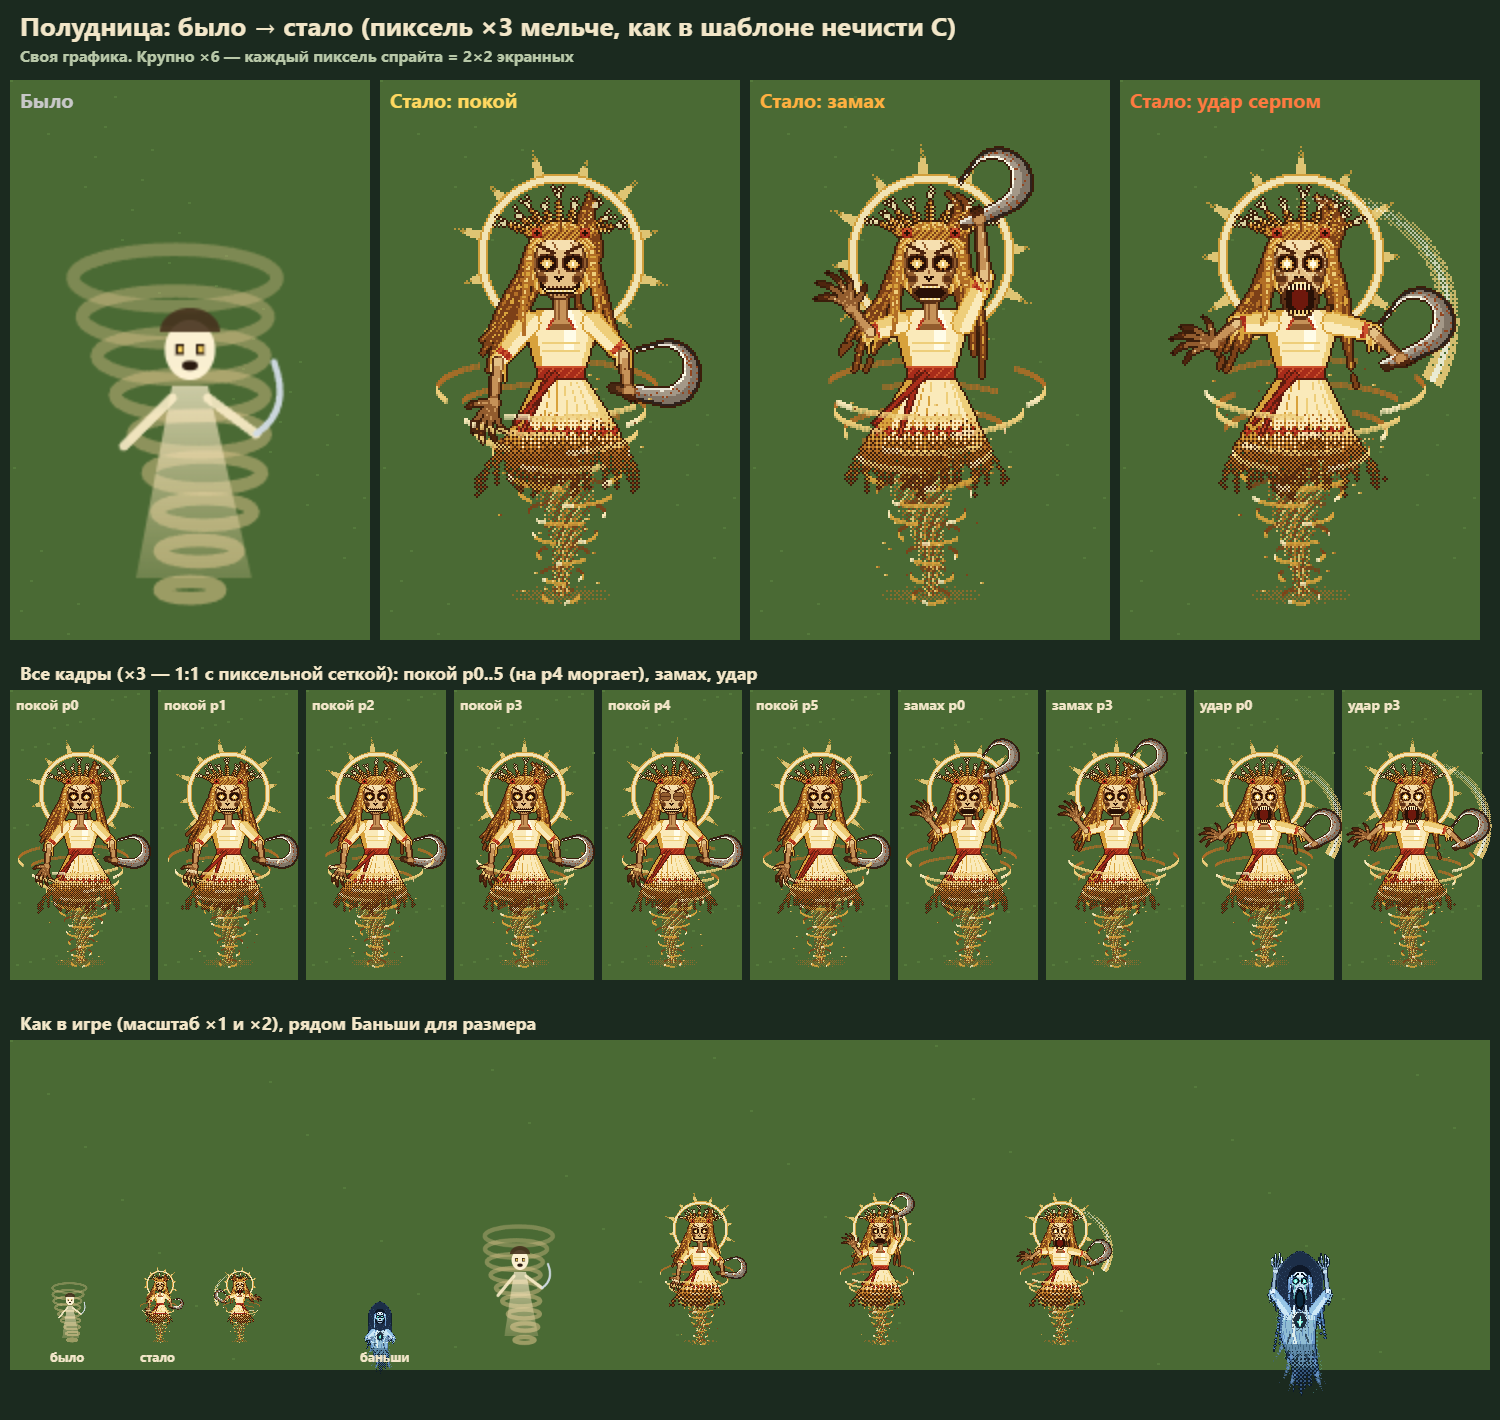
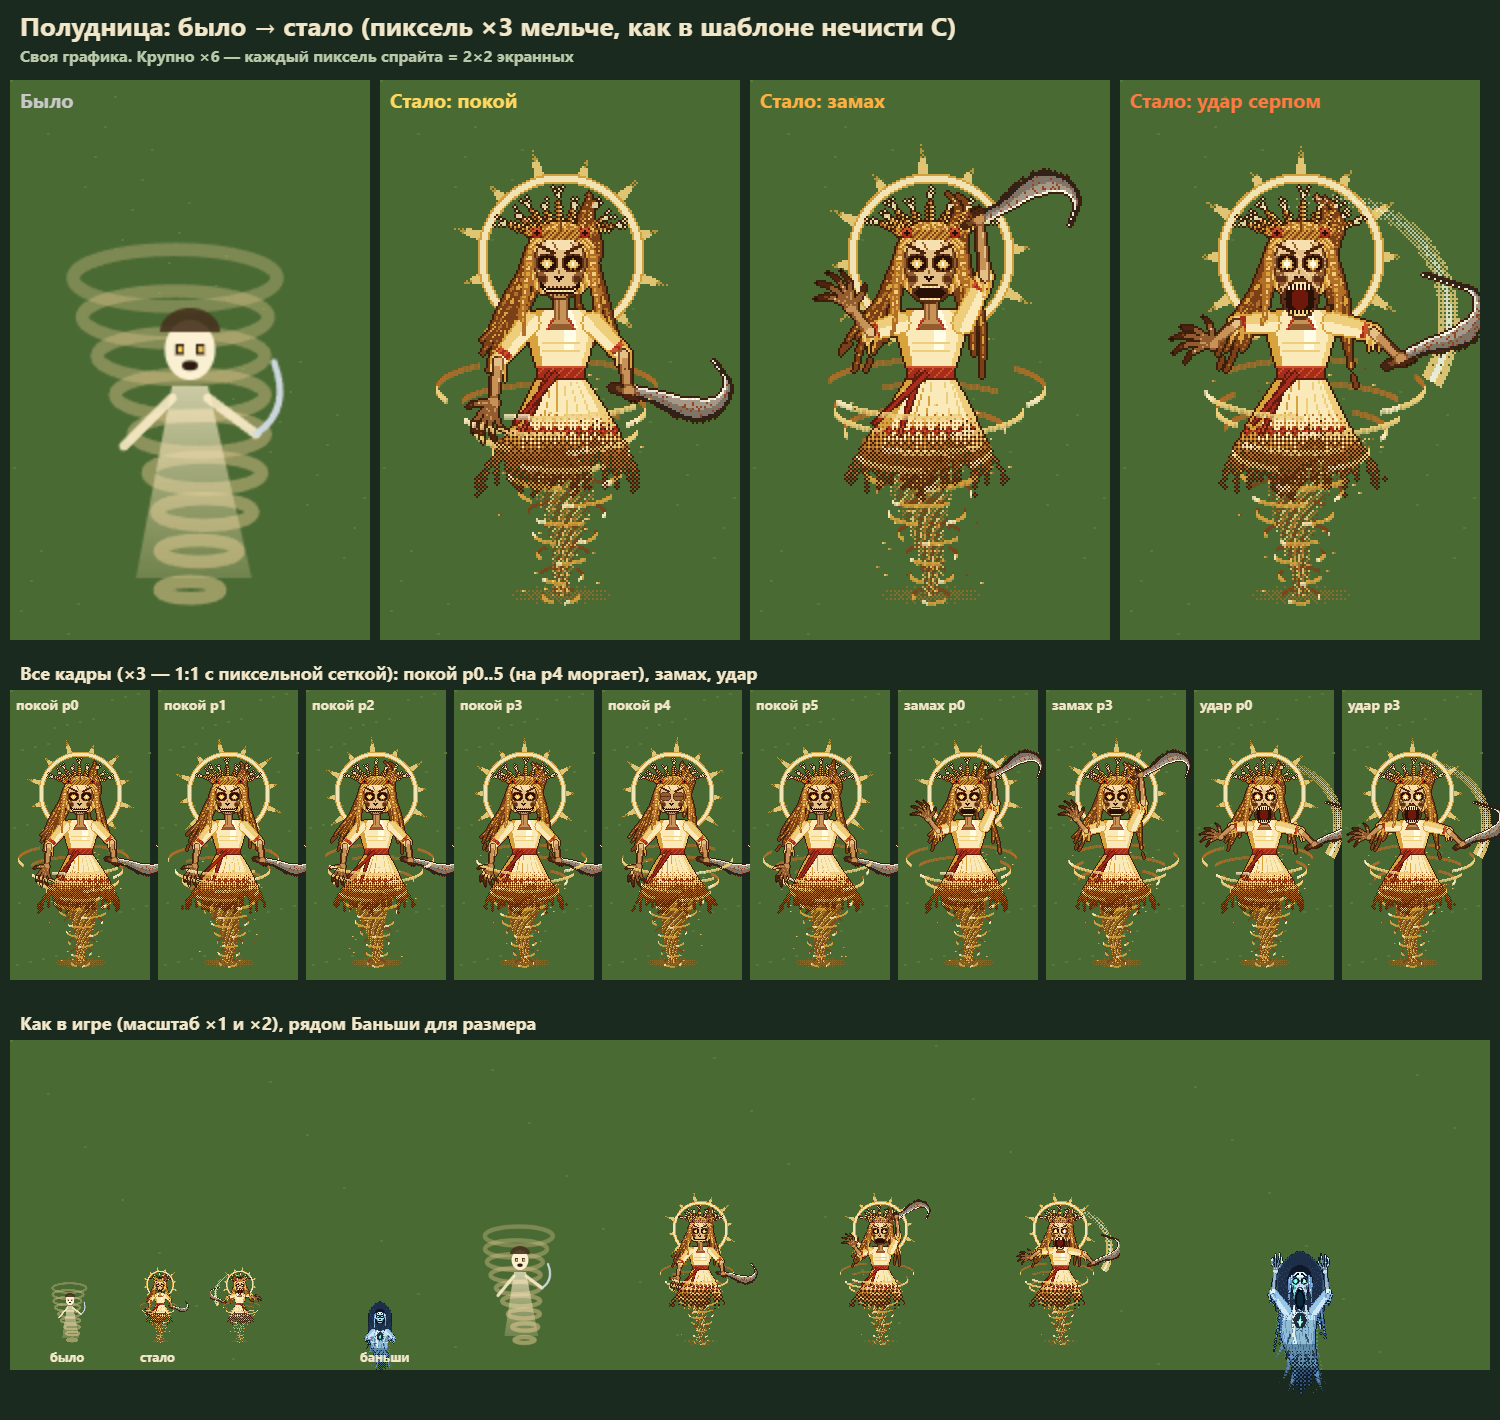
Полудница: серп S-образный, как на образце владельца
- У гарды лёгкий прогиб в обратную сторону, дальше длинная дуга с крюком к острию; острие заворачивает назад к телу.
- Клинок шире всего посередине, обух с зазубринами, бронзовая гарда. Толщина и хват прежние.

diff --git a/js/world/fairy2.js b/js/world/fairy2.js
@@ -843,14 +843,18 @@ function fzNoonPx(lv, p) {
   const sickle = (hx, hy, a) => {
     const ux = Math.cos(a), uy = Math.sin(a);
     L(hx - ux * 8, hy - uy * 8, hx + ux * 9, hy + uy * 9, 2.2, 2, (t, e) => e ? [70, 38, 18] : t < 0.08 ? [70, 38, 18] : [118, 70, 34]);   // рукоять
-    L(hx + ux * 8.5, hy + uy * 8.5, hx + ux * 11, hy + uy * 11, 2.5, 2.5, (t, e) => e ? I0 : I1);                                          // кольцо
-    const sg = -Math.sin(a + Math.PI / 2) > -Math.sin(a - Math.PI / 2) ? 1 : -1, N = 40, pts = [];
-    let x = hx + ux * 11, y = hy + uy * 11, d = a;
-    for (let i = 0; i <= N; i++) {
-      const t = i / N, w = t < 0.3 ? 3 + t * 5.5 : 4.65 * (1 - (t - 0.3) / 0.7) + 0.25;
-      pts.push([x, y, w]);
-      d += sg * (t < 0.12 ? 0.02 : 0.1); x += Math.cos(d) * 1.35; y += Math.sin(d) * 1.35;   // короткий прямой «стебель», дальше ровный круглый крюк — как у друидического серпа
-    }
+    L(hx + ux * 8.5, hy + uy * 8.5, hx + ux * 11, hy + uy * 11, 2.8, 2.8, (t, e) => e ? [110, 78, 30] : hsh(t * 9) > 0.5 ? [214, 176, 92] : [168, 128, 56]);   // бронзовая гарда
+    // S-образный клинок: у гарды лёгкий прогиб в обратную сторону, дальше длинная дуга, к острию круче; из двух сторон изгиба берём ту, где острие заворачивает назад к телу
+    const N = 40, blade = sg => {
+      const q = []; let x = hx + ux * 11, y = hy + uy * 11, d = a;
+      for (let i = 0; i <= N; i++) {
+        const t = i / N, w = t < 0.45 ? 2.2 + t / 0.45 * 2.6 : 4.8 * (1 - (t - 0.45) / 0.55) + 0.3;
+        q.push([x, y, w]);
+        d += sg * (t < 0.2 ? -0.03 : 0.02 + 0.14 * Math.pow((t - 0.2) / 0.8, 1.2)); x += Math.cos(d) * 1.3; y += Math.sin(d) * 1.3;
+      }
+      return q;
+    };
+    const A = blade(1), B = blade(-1), tipD = q => Math.hypot(q[N][0], q[N][1] + 130), sg = tipD(A) < tipD(B) ? 1 : -1, pts = sg > 0 ? A : B;
     // заливка одним проходом: ближайшая точка кривой, сторона и ширина клинка в ней
     const xs = pts.map(q => q[0]), ys = pts.map(q => q[1]);
     R(Math.min(...xs) - 6, Math.min(...ys) - 6, Math.max(...xs) + 6, Math.max(...ys) + 6, (px, py) => {
@@ -861,7 +865,8 @@ function fzNoonPx(lv, p) {
         if (dd < best) { best = dd; bo = (ex * dy - ey * dx) / Math.sqrt(l2); bw = w0 + (w1 - w0) * u; bt = (i - 1 + u) / N; }
       }
       const o = -bo * sg, half = bw;                                                 // o > 0 — вогнутая сторона (жало)
-      if (Math.abs(o) > half + 0.5) return null;
+      const jag = bt > 0.08 && bt < 0.7 && Math.floor(bt * 70) % 3 === 0 ? 1.3 : 0;      // зазубрины по обуху
+      if (o > half + 0.5 || o < -half - 0.5 - jag) return null;
       if (o < -half + 0.6) return I0;                                                   // обух
       if (o > half - 0.6) return bt > 0.2 && bt < 0.85 && hsh(px * 3 + py) > 0.55 ? K7 : I3;   // жало блестит на солнце
       if (hsh(px * 7 + py * 13) > 0.88) return RU;                                       // ржа
